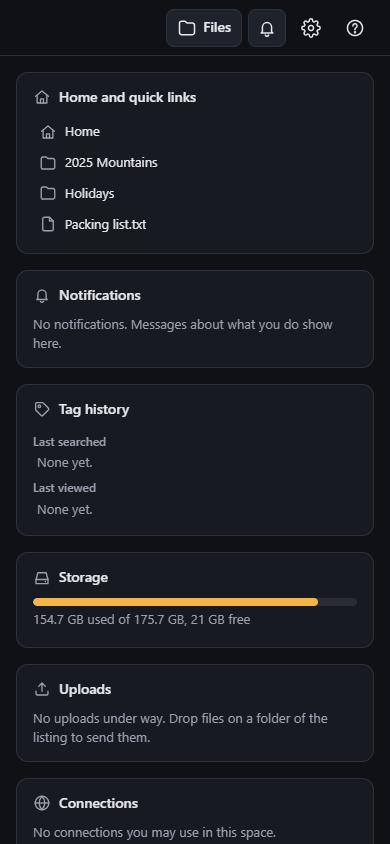
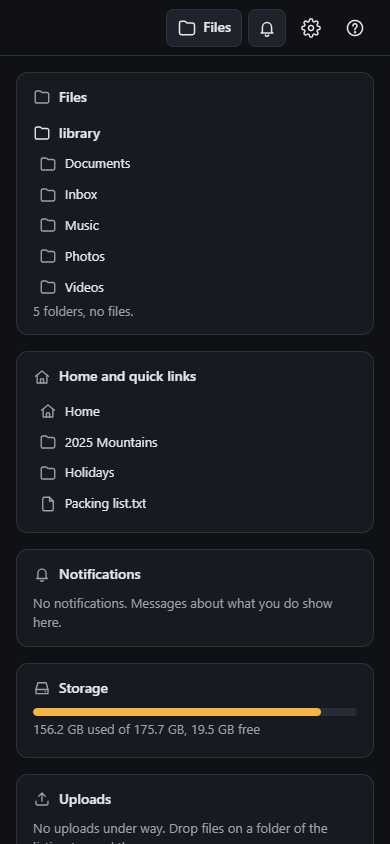
claude: dashboard Files card: the folder Files opens (the top of the library, or the folder the account's folder rules lead to, the server's access.start: one api/browse, two then), its first 12 folders each opening its listing, how many folders and files it holds (library.browse); first card of DEF

diff --git a/src/Sfe.Web/src/app/dashboard/widgets/files-widget.component.ts b/src/Sfe.Web/src/app/dashboard/widgets/files-widget.component.ts
@@ -1,0 +1,97 @@
+import { ChangeDetectionStrategy, Component, computed, inject, OnInit, signal } from '@angular/core';
+import { RouterLink } from '@angular/router';
+import { Api } from '../../core/api.service';
+import { ConfigService } from '../../core/config.service';
+import { icu } from '../../core/i18n/icu';
+import { DirectoryListing } from '../../core/models';
+import { ListingStore } from '../../library/listing.store';
+import { IconComponent } from '../../shared/icon.component';
+
+/** Folders the card lists; the folder's listing shows them all. */
+export const FOLDERS_SHOWN = 12;
+
+/** The first page of `path`'s listing, sorted by name: its folders come first. */
+function firstPage(api: Api, path: string): Promise<DirectoryListing> {
+    return api.browse({ path, offset: 0, limit: FOLDERS_SHOWN + 1, sort: 'name', desc: false });
+}
+
+/**
+ * Where the session's files start: the top of the library, or the folder further down its folder rules lead to
+ * (the server's `access.start`, as the listing's `ListingStore.start`).
+ */
+export async function startFolder(api: Api): Promise<DirectoryListing> {
+    const top = await firstPage(api, '');
+    const start = top.access?.start;
+    return start ? firstPage(api, start) : top;
+}
+
+/**
+ * The dashboard's Files: the folder Files opens (the top of the library, or the first folder further down the
+ * session may enter), its folders each opening its listing, and how many folders and files it holds.
+ */
+@Component({
+    selector: 'sfe-files-widget',
+    imports: [RouterLink, IconComponent],
+    changeDetection: ChangeDetectionStrategy.OnPush,
+    host: { class: 'files-widget' },
+    template: `
+        @if (listing(); as listing) {
+            <a class="dashboard-files-top" routerLink="/" [queryParams]="store.libraryParams(listing.path)"
+               [title]="openHint()" data-start-folder>
+                <svg sfeIcon="folder"></svg><span>{{ name() }}</span>
+            </a>
+            <ul class="quick-link-list">
+                @for (folder of folders(); track folder.path) {
+                    <li class="quick-link" [attr.data-folder]="folder.path">
+                        <a class="quick-link-target" routerLink="/" [queryParams]="store.libraryParams(folder.path)"
+                           [title]="'/' + folder.path">
+                            <svg sfeIcon="folder"></svg><span class="quick-link-name">{{ folder.name }}</span>
+                        </a>
+                    </li>
+                }
+            </ul>
+            <p class="dashboard-card-note">{{ counts() }}</p>
+        } @else if (failed()) {
+            <p class="dashboard-card-note" i18n>The files could not be read.</p>
+        } @else {
+            <span class="spinner"></span>
+        }
+    `,
+})
+export class FilesWidgetComponent implements OnInit {
+    private readonly api = inject(Api);
+    private readonly config = inject(ConfigService);
+    protected readonly store = inject(ListingStore);
+
+    protected readonly listing = signal<DirectoryListing | null>(null);
+    protected readonly failed = signal(false);
+    protected readonly folders = computed(() =>
+        (this.listing()?.items ?? []).filter((item) => item.kind === 'directory').slice(0, FOLDERS_SHOWN),
+    );
+    protected readonly name = computed(() => {
+        const listing = this.listing();
+        return !listing?.path ? this.config.libraryName() : `/${listing.path}`;
+    });
+    protected readonly counts = computed(() => {
+        const listing = this.listing()!;
+        const folders = listing.directoryCount;
+        const files = listing.fileCount;
+        return icu(
+            $localize`{folders, plural, =0 {No folders} one {# folder} other {# folders}}, \
+{files, plural, =0 {no files} one {# file} other {# files}}.`,
+            { folders, files },
+        );
+    });
+
+    async ngOnInit(): Promise<void> {
+        try {
+            this.listing.set(await startFolder(this.api));
+        } catch {
+            this.failed.set(true);
+        }
+    }
+
+    protected openHint(): string {
+        return $localize`Browse the files of ${this.name()}:folder:.`;
+    }
+}

diff --git a/src/Sfe.Web/src/app/dashboard/widgets/files-widget.spec.ts b/src/Sfe.Web/src/app/dashboard/widgets/files-widget.spec.ts
@@ -1,0 +1,85 @@
+import { TestBed } from '@angular/core/testing';
+import { DirectoryListing, LibraryItem } from '../../core/models';
+import { ApiMock, fakeConfig, item, loadConfig, mockApi, settle, testProviders } from '../../../testing/fakes';
+import { FilesWidgetComponent } from './files-widget.component';
+
+function listing(path: string, items: LibraryItem[], overrides: Partial<DirectoryListing> = {}): DirectoryListing {
+    const directoryCount = items.filter((entry) => entry.kind === 'directory').length;
+    return {
+        path,
+        name: path.split('/').pop() ?? '',
+        parentPath: null,
+        items,
+        offset: 0,
+        limit: 13,
+        total: items.length,
+        directoryCount,
+        fileCount: items.length - directoryCount,
+        ...overrides,
+    };
+}
+
+const PATH_ONLY: Partial<DirectoryListing> = { access: { rights: [], pathOnly: true } };
+
+describe('dashboard Files widget', () => {
+    let api: ApiMock;
+
+    async function render(): Promise<HTMLElement> {
+        TestBed.configureTestingModule({ providers: testProviders(api) });
+        await loadConfig(api, fakeConfig());
+        const fixture = TestBed.createComponent(FilesWidgetComponent);
+        fixture.detectChanges();
+        await settle();
+        fixture.detectChanges();
+        return fixture.nativeElement as HTMLElement;
+    }
+
+    const folderLinks = (element: HTMLElement) =>
+        [...element.querySelectorAll<HTMLAnchorElement>('[data-folder] a')].map((link) => link.getAttribute('href'));
+
+    beforeEach(() => {
+        api = mockApi();
+    });
+
+    afterEach(() => TestBed.resetTestingModule());
+
+    it('shows the top of the library, its folders each opening its listing, and what it holds', async () => {
+        api.browse.mockResolvedValue(listing('', [item('Photos'), item('Music'), item('notes.txt')]));
+        const element = await render();
+
+        const top = element.querySelector<HTMLAnchorElement>('[data-start-folder]')!;
+        expect(top.textContent).toContain('Root');
+        expect(top.getAttribute('href')).toBe('/');
+        expect(folderLinks(element)).toEqual(['/?path=Photos', '/?path=Music']);
+        expect(element.textContent).toContain('2 folders, 1 file.');
+        expect(api.browse).toHaveBeenCalledWith({ path: '', offset: 0, limit: 13, sort: 'name', desc: false });
+    });
+
+    it("shows the folder further down where the account's folders start", async () => {
+        api.browse.mockImplementation(async ({ path }) =>
+            path === ''
+                ? listing('', [item('Homes')], { access: { rights: [], pathOnly: true, start: 'Homes/tom' } })
+                : listing('Homes/tom', [item('Homes/tom/Trips')]),
+        );
+        const element = await render();
+
+        const top = element.querySelector<HTMLAnchorElement>('[data-start-folder]')!;
+        expect(top.textContent).toContain('/Homes/tom');
+        expect(top.getAttribute('href')).toBe('/?path=Homes%2Ftom');
+        expect(folderLinks(element)).toEqual(['/?path=Homes%2Ftom%2FTrips']);
+        expect(api.browse).toHaveBeenCalledTimes(2);
+    });
+
+    it("stays at the top when the account's folders start in several places", async () => {
+        api.browse.mockResolvedValue(listing('', [item('Homes'), item('Shared')], PATH_ONLY));
+        const element = await render();
+        expect(folderLinks(element)).toEqual(['/?path=Homes', '/?path=Shared']);
+        expect(api.browse).toHaveBeenCalledTimes(1);
+    });
+
+    it('says when the files cannot be read', async () => {
+        api.browse.mockRejectedValue(new Error('down'));
+        const element = await render();
+        expect(element.textContent).toContain('The files could not be read.');
+    });
+});

diff --git a/src/Sfe.Web/src/app/dashboard/dashboard.spec.ts b/src/Sfe.Web/src/app/dashboard/dashboard.spec.ts
@@ -39,6 +39,17 @@ describe('dashboard', () => {
         api.quickLinks.mockResolvedValue(LINKS);
         api.storage.mockResolvedValue({ reported: true, used: 90, total: 100, free: 10 });
         api.uploads.mockResolvedValue([]);
+        api.browse.mockResolvedValue({
+            path: '',
+            name: '',
+            parentPath: null,
+            items: [],
+            offset: 0,
+            limit: 13,
+            total: 0,
+            directoryCount: 0,
+            fileCount: 0,
+        });
         api.tagSidebar.mockResolvedValue({ popular: [], searched: [], viewed: [], lucky: [], historyEnabled: true });
         TestBed.configureTestingModule({
             providers: [
@@ -71,12 +82,12 @@ describe('dashboard', () => {
         it('puts the default widgets in their columns for whoever may see them', () => {
             const config = fakeConfig({ connections: { levels: ['account'], kinds: [] } });
             const all = arrangeLayout(DEFAULT_LAYOUT, can(ALL_RIGHTS), config);
-            expect(all[1].map((widget) => widget.id)).toEqual(['storage', 'uploads', 'connections']);
+            expect(all[1].map((widget) => widget.id)).toEqual(['storage', 'uploads', 'connections', 'tags']);
 
             const columns = arrangeLayout(DEFAULT_LAYOUT, can(ALL_RIGHTS));
             expect(columns.map((column) => column.map((widget) => widget.id))).toEqual([
-                ['places', 'notifications', 'tags'],
-                ['storage', 'uploads'],
+                ['files', 'places', 'notifications'],
+                ['storage', 'uploads', 'tags'],
             ]);
         });
 
@@ -153,7 +164,7 @@ describe('dashboard', () => {
         it('shows the home folder, the quick links and the storage', async () => {
             const element = await openDashboard(fakeConfig());
 
-            expect(cards(element)).toEqual(['places', 'notifications', 'tags', 'storage', 'uploads']);
+            expect(cards(element)).toEqual(['files', 'places', 'notifications', 'storage', 'uploads', 'tags']);
             const places = element.querySelector('[data-widget="places"]')!;
             expect([...places.querySelectorAll('.quick-link-name')].map((name) => name.textContent)).toEqual([
                 'Home',
@@ -173,7 +184,7 @@ describe('dashboard', () => {
 
         it('shows only the cards the account may use', async () => {
             const element = await openDashboard(limitedConfig([Rights.browse]));
-            expect(cards(element)).toEqual(['notifications', 'storage']);
+            expect(cards(element)).toEqual(['files', 'notifications', 'storage']);
             expect(element.querySelector('a[href="/admin"]')).toBeNull();
         });
 

diff --git a/tests/e2e/specs/dashboard.spec.ts b/tests/e2e/specs/dashboard.spec.ts
@@ -11,6 +11,7 @@ test('the dashboard shows its cards in one column and leads to the files', async
     await expect(places).toBeVisible();
     await expect(storage.locator('.storage-line')).toBeVisible();
     await expect(page.locator('[data-widget="notifications"]')).toBeVisible();
+    await expect(page.locator('[data-widget="files"] [data-folder]').first()).toBeVisible();
     await expect(page.locator('[data-widget="uploads"]')).toContainText('No uploads under way');
     await expect(page.locator('[data-widget="tags"] [data-history="viewed"]')).toBeVisible();
 

diff --git a/src/Sfe.Web/src/app/dashboard/dashboard-widgets.ts b/src/Sfe.Web/src/app/dashboard/dashboard-widgets.ts
@@ -21,6 +21,13 @@ export interface DashboardWidget {
 /** Every widget the dashboard can show, in the order a list of them is offered. */
 export const DASHBOARD_WIDGETS: readonly DashboardWidget[] = [
     {
+        id: 'files',
+        title: $localize`Files`,
+        icon: 'folder',
+        shown: (can) => can(Rights.browse),
+        load: () => import('./widgets/files-widget.component').then((m) => m.FilesWidgetComponent),
+    },
+    {
         id: 'places',
         title: $localize`Home and quick links`,
         icon: 'home',

diff --git a/src/Sfe.Web/src/styles/dashboard.css b/src/Sfe.Web/src/styles/dashboard.css
@@ -80,6 +80,20 @@
     border-radius: 4px;
 }
 
+/* Files: the folder Files opens, then its folders. */
+.dashboard-files-top {
+    display: flex;
+    align-items: center;
+    gap: 8px;
+    min-height: 32px;
+    font-weight: 600;
+    overflow-wrap: anywhere;
+}
+.dashboard-files-top .icon {
+    flex-shrink: 0;
+    width: 18px;
+    height: 18px;
+}
 .dashboard-card-subtitle {
     margin: 4px 0 0;
     color: var(--text-muted);

diff --git a/src/Sfe.Web/src/app/dashboard/dashboard-layout.ts b/src/Sfe.Web/src/app/dashboard/dashboard-layout.ts
@@ -15,8 +15,8 @@ export const DASHBOARD_COLUMNS = 2;
 /** The layout of an account that has made none of its own. */
 export const DEFAULT_LAYOUT: DashboardLayout = {
     columns: [
-        ['places', 'notifications', 'tags'],
-        ['storage', 'uploads', 'connections'],
+        ['files', 'places', 'notifications'],
+        ['storage', 'uploads', 'connections', 'tags'],
     ],
 };
 

diff --git a/agents/docs/development/release-2.0-plan.md b/agents/docs/development/release-2.0-plan.md
@@ -665,7 +665,9 @@ Delete this plan once 2.0 is released, moving what stays true into the feature n
   - [x] **b: the users' widgets from what the client already reads.** Done 2026-11-28 (step b split in four: b–e).
     `notifications` (latest 5, read only), `tags` (last searched and viewed), `uploads` (the tab's batches and
     the interrupted ones, each linking to its folder), `connections` (state words, `?c=` links). `shown(can,
-    config)`: the server's `connections` too. `DEFAULT_LAYOUT` two columns of three. Client only: no route.
+    config)`: the server's `connections` too. Then, asked by the owner,
+    `files` (the folder Files opens, its folders) first in `DEFAULT_LAYOUT` (`files`, `places`, `notifications` |
+    `storage`, `uploads`, `connections`, `tags`). Client only: no route.
     Screenshot `dashboard.png` taller (640 px).
   - [ ] **c: the administrators' widgets:** scan status (`api/scan`), failed tasks (`api/tasks`, last runs that
     failed), keep-alive (`api/keep-alive`, `settings.keepAlive`). Each with the rights of its route.

diff --git a/agents/docs/features/dashboard.md b/agents/docs/features/dashboard.md
@@ -25,6 +25,10 @@ User docs: `docs/user-guide/browsing.md#dashboard`, `docs/administration/interfa
   and opens the top of the library when there is none or it is not there. Everything injected **before** the first
   `await` (the injection context ends there).
 - Widgets so far (`widgets/`, specs in `widgets/widgets.spec.ts`):
+  - `files` (`library.browse`): the folder Files opens: `api/browse` of the top (first page, 13 items: folders
+    come first), then of `access.start` when the server names one (folder rules leading one way down, as
+    `ListingStore.start`). Its first 12 folders and the counts (`directoryCount`, `fileCount`). Spec
+    `widgets/files-widget.spec.ts`.
   - `places`: home folder and quick links; a file's link opens its folder, as the store's `reveal` would act on a
     listing that isn't shown.
   - `notifications` (`library.browse`): the latest 5 of `Notifications`, read only (the header's bell acts on them);

diff --git a/docs/user-guide/browsing.md b/docs/user-guide/browsing.md
@@ -16,6 +16,9 @@ its keyboard shortcut, if any) when you rest the mouse on it.
 SFE's address alone (a bookmark of the server, a new tab) opens the dashboard: cards with what you use most, side by
 side, one under the other on a phone.
 
+- **Files**: the folder **Files** opens: the top of the library or, when you may only see folders further down,
+  the first of them. Its folders (the first twelve, by name) each open their listing, and it says how many folders
+  and files it holds.
 - **Home and quick links**: your [home folder](#home-folder) and your [quick links](#quick-links). A folder opens
   its listing, a file the folder holding it; those not there any more show faded.
 - **Notifications**: the last five messages of the [bell](#notifications), newest first; the bell

diff --git a/CHANGELOG.md b/CHANGELOG.md
@@ -8,7 +8,8 @@ scan) is in [docs/upgrading.md](docs/upgrading.md).
 ### Added
 
 - **Dashboard, the new start page**: SFE's address alone (a bookmark of the server, a new tab) opens a dashboard of
-  cards: your home folder and quick links, the latest notifications, the tags last searched and viewed, the storage
+  cards: the top of the library (or the folder your files start in) with its folders, your home folder and quick
+  links, the latest notifications, the tags last searched and viewed, the storage
   used and free, the uploads under way and the connections you may use (with those to sign in to again). One column
   on phones. **Dashboard** in
   the ⋮ menu opens it; **Files** goes to the library. A new setting, **Start page** (Interface › Browsing, and each
